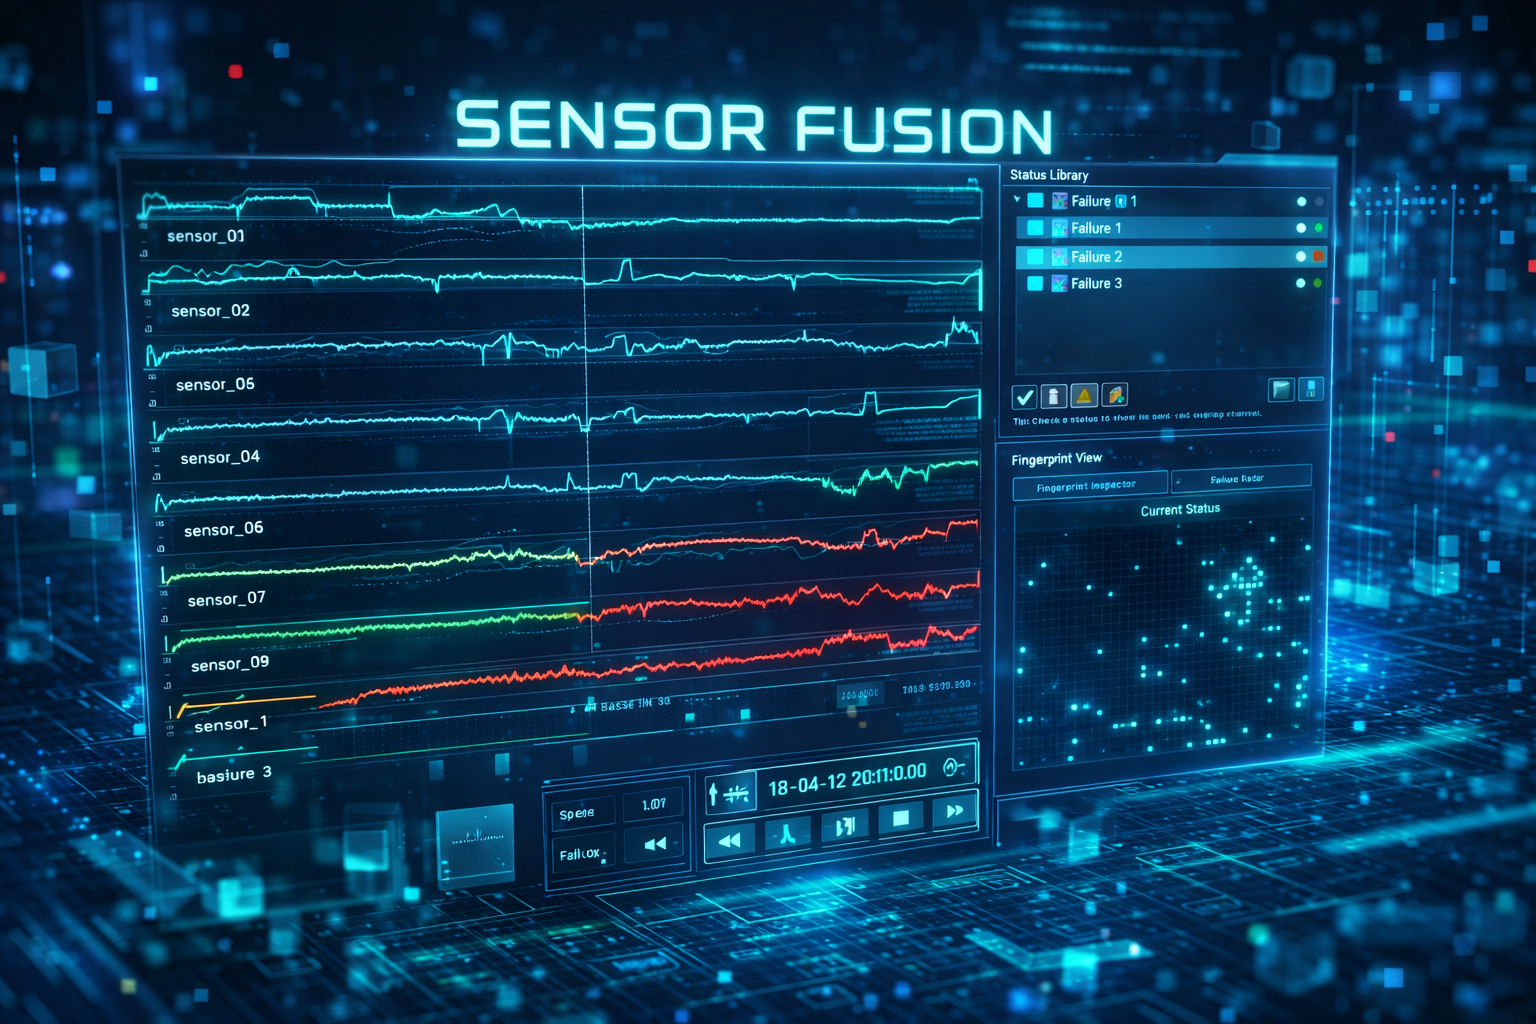
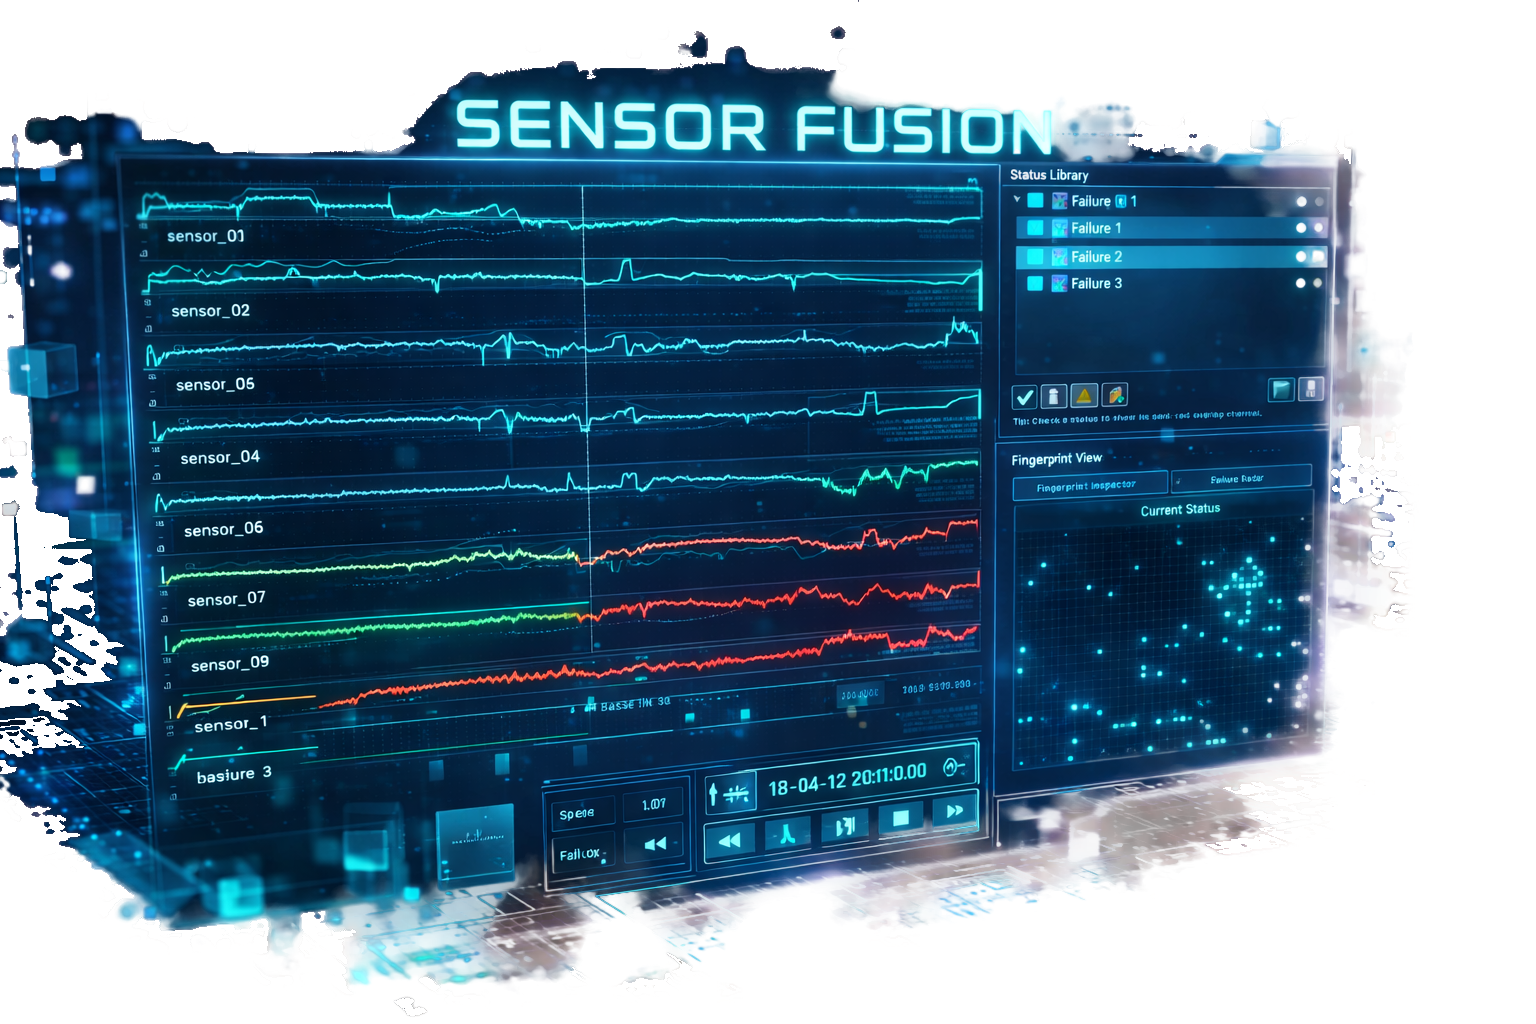
Replace hero image and remove blur edge overlays

diff --git a/assets/styles.css b/assets/styles.css
@@ -414,16 +414,6 @@ button {
   isolation: isolate;
 }
 
-.hero-visual::after {
-  content: "";
-  position: absolute;
-  inset: -6%;
-  z-index: 6;
-  pointer-events: none;
-  background: radial-gradient(132% 112% at 52% 50%, rgba(var(--hero-backdrop-rgb), 0) 42%, rgba(var(--hero-backdrop-rgb), 0.20) 62%, rgba(var(--hero-backdrop-rgb), 0.52) 80%, rgba(var(--hero-backdrop-rgb), 0.86) 100%);
-  filter: blur(20px);
-}
-
 .signal-panel {
   position: absolute;
   inset: 0;
@@ -443,19 +433,6 @@ button {
   height: 300px;
   background: radial-gradient(circle, rgba(28, 211, 255, 0.28), transparent 70%);
   z-index: 4;
-}
-
-.signal-panel::after {
-  content: "";
-  position: absolute;
-  inset: -14%;
-  z-index: 5;
-  pointer-events: none;
-  background:
-    linear-gradient(to right, rgba(var(--hero-backdrop-rgb), 0.95) 0%, rgba(var(--hero-backdrop-rgb), 0.7) 12%, rgba(var(--hero-backdrop-rgb), 0.22) 24%, rgba(var(--hero-backdrop-rgb), 0) 36%, rgba(var(--hero-backdrop-rgb), 0) 64%, rgba(var(--hero-backdrop-rgb), 0.22) 76%, rgba(var(--hero-backdrop-rgb), 0.7) 88%, rgba(var(--hero-backdrop-rgb), 0.95) 100%),
-    linear-gradient(to bottom, rgba(var(--hero-backdrop-rgb), 0.95) 0%, rgba(var(--hero-backdrop-rgb), 0.72) 12%, rgba(var(--hero-backdrop-rgb), 0.24) 24%, rgba(var(--hero-backdrop-rgb), 0) 36%, rgba(var(--hero-backdrop-rgb), 0) 64%, rgba(var(--hero-backdrop-rgb), 0.24) 76%, rgba(var(--hero-backdrop-rgb), 0.72) 88%, rgba(var(--hero-backdrop-rgb), 0.95) 100%),
-    radial-gradient(134% 116% at 52% 50%, rgba(var(--hero-backdrop-rgb), 0) 44%, rgba(var(--hero-backdrop-rgb), 0.24) 60%, rgba(var(--hero-backdrop-rgb), 0.58) 80%, rgba(var(--hero-backdrop-rgb), 0.98) 100%);
-  filter: blur(20px);
 }
 
 .panel-grid {
@@ -483,35 +460,6 @@ button {
   height: 100%;
   object-fit: cover;
   object-position: center;
-  opacity: 0.97;
-  -webkit-mask-image: radial-gradient(126% 110% at 52% 50%, rgba(0,0,0,1) 26%, rgba(0,0,0,0.88) 42%, rgba(0,0,0,0.54) 56%, rgba(0,0,0,0.2) 66%, rgba(0,0,0,0) 76%);
-  mask-image: radial-gradient(126% 110% at 52% 50%, rgba(0,0,0,1) 26%, rgba(0,0,0,0.88) 42%, rgba(0,0,0,0.54) 56%, rgba(0,0,0,0.2) 66%, rgba(0,0,0,0) 76%);
-  -webkit-mask-repeat: no-repeat;
-  mask-repeat: no-repeat;
-  -webkit-mask-size: 100% 100%;
-  mask-size: 100% 100%;
-}
-
-.hero-visual-image-edge-blur {
-  display: none;
-}
-
-@supports ((-webkit-mask-image: radial-gradient(#000, transparent)) or (mask-image: radial-gradient(#000, transparent))) {
-  .hero-visual-image-edge-blur {
-    display: block;
-    z-index: 3;
-    inset: 0;
-    transform: scale(1.045);
-    transform-origin: center;
-    filter: blur(20px);
-    opacity: 0.72;
-    -webkit-mask-image: radial-gradient(142% 124% at 52% 50%, rgba(0,0,0,0) 42%, rgba(0,0,0,0.42) 58%, rgba(0,0,0,0.9) 74%, rgba(0,0,0,1) 86%);
-    mask-image: radial-gradient(142% 124% at 52% 50%, rgba(0,0,0,0) 42%, rgba(0,0,0,0.42) 58%, rgba(0,0,0,0.9) 74%, rgba(0,0,0,1) 86%);
-    -webkit-mask-repeat: no-repeat;
-    mask-repeat: no-repeat;
-    -webkit-mask-size: 100% 100%;
-    mask-size: 100% 100%;
-  }
 }
 
 section {

diff --git a/index.html b/index.html
@@ -105,7 +105,6 @@
 <div class="hero-visual" aria-hidden="true">
   <div class="signal-panel">
     <img class="hero-visual-image" src="assets/images/landing/sensor-fusion-hero.png" alt="Sensor fusion dashboard with multi-sensor trends and status library" loading="eager" decoding="async" width="1536" height="1024" />
-    <img class="hero-visual-image hero-visual-image-edge-blur" src="assets/images/landing/sensor-fusion-hero.png" alt="" aria-hidden="true" loading="eager" decoding="async" width="1536" height="1024" />
   </div>
 </div>
 
